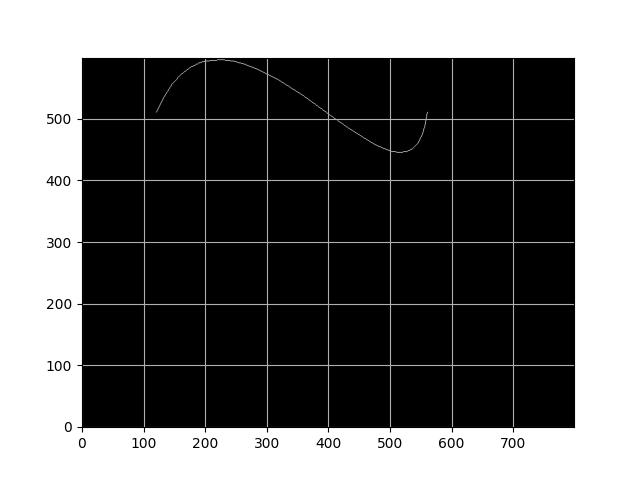
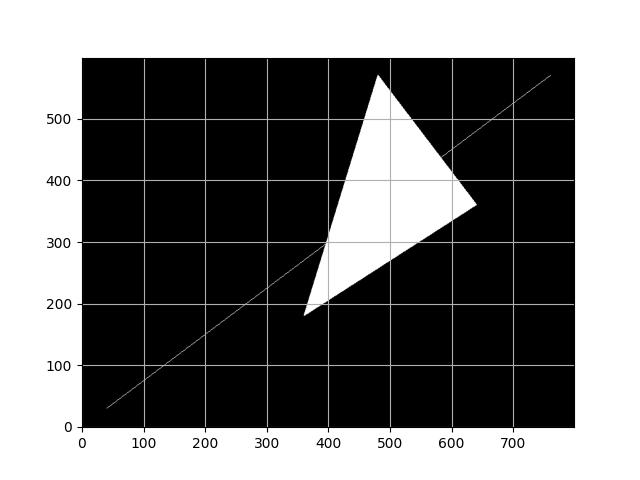
wip

Changed region(s): [[0.4688, 0.1562, 0.75, 0.6562], [0.375, 0.125, 0.4062, 0.1562], [0.2812, 0.125, 0.3125, 0.1562]]

diff --git a/raster.py b/raster.py
@@ -38,35 +38,70 @@ def plot_reta(matrix, ponto1, ponto2):
     return util.plot_rasterized(points, matrix)
 
 
-def ponto_dentro(ponto, vertices):
+def ponto_dentro(ponto, edges_list):
     x, y = ponto
-    num_vertices = len(vertices)
     dentro = False
 
-    for i in range(num_vertices):
-        xi, yi = vertices[i]
-        xj, yj = vertices[(i + 1) % num_vertices]
-        if ((yi < y <= yj) or (yj < y <= yi)) and (xi + (y - yi) / (yj - yi) * (xj - xi) < x):
+    for edge in edges_list:
+        ponto1, ponto2 = edge
+        x1, y1 = ponto1
+        x2, y2 = ponto2
+
+        if ((y1 < y <= y2) or (y2 < y <= y1)) and (x1 + (y - y1) / (y2 - y1) * (x2 - x1) < x):
             dentro = not dentro
 
     return dentro
 
 
-def plot_poli(matrix, edges_list):
-    poli = [(.0, .0), (.2, .2), (.4, .0), (.2, -.2)]
+def plot_poli2(matrix, edges_list):
 
-    # for i in range(len(edges_list)):
-    #     ponto1 = edges_list[i]
-    #     ponto2 = edges_list[(i + 1) % len(edges_list)]
-    #     plot_reta(matrix, ponto1, ponto2)
+    for i in range(len(edges_list)):
+        edge = edges_list[i]
+        ponto1 = edge[0]
+        ponto2 = edge[1]
+        plot_reta(matrix, ponto1, ponto2)
 
-    for x in range(len(matrix)):
-        for y in range(len(matrix[0])):
-            x_norm, y_norm = util.normalizar_coordenadas(x, y, len(matrix), len(matrix[0]))
-            if ponto_dentro((x_norm, y_norm), edges_list):
-                matrix[x][y] = 1
+    edges_list = escalar_arestas(edges_list, len(matrix), len(matrix[0]))
+
+    matriz = preencher_poligono(matrix, edges_list)
 
     return matrix
+
+
+def preencher_poligono(matrix, edges_list):
+    def get_intersecoes(y, arestas):
+        intersecoes = []
+        for aresta in arestas:
+            x1, y1 = aresta[0]
+            x2, y2 = aresta[1]
+
+            if y1 == y2:
+                continue
+
+            if y1 > y2:
+                x1, y1, x2, y2 = x2, y2, x1, y1
+
+            if y1 <= y < y2:
+                x_intersecao = x1 + (y - y1) * (x2 - x1) / (y2 - y1)
+                intersecoes.append(x_intersecao)
+
+        return sorted(intersecoes)
+
+    for y in range(len(matrix)):
+        intersecoes = get_intersecoes(y, edges_list)
+        for i in range(0, len(intersecoes), 2):
+            for x in range(int(intersecoes[i]), int(intersecoes[i + 1]) + 1):
+                matrix[y][x] = 1
+
+    return matrix
+
+
+def escalar_arestas(edges_list, largura, altura):
+    edges_scaled = []
+    for edge in edges_list:
+        scaled_edge = [(util.denormalizar_coordenadas(x_norm, y_norm, largura, altura)) for x_norm, y_norm in edge]
+        edges_scaled.append(scaled_edge)
+    return edges_scaled
 
 
 def generate_hermite_pts(matrix, p1, p2, t1, t2, step=.1, qtn: int = None):

diff --git a/interface.py b/interface.py
@@ -1,6 +1,7 @@
 import tkinter as tk
 from PIL import Image, ImageTk
 import CG
+from ast import literal_eval
 
 
 def importante(val):
@@ -45,10 +46,15 @@ def reta_control(root, matrix_list, image_name_list, images, imagem_label):
     button_adicionar_reta.grid(row=1, column=4)
 
 
-def poli_control(root, image_name_list, images, imagem_label):
+def poli_control(root, matrix_list, image_name_list, images, imagem_label):
     def botao_poli():
         print(entry_el.get())
-        # TODO: coisa os negocios aqui pra poder ler do jeito certo
+        lista_de_arestas = literal_eval(entry_el.get())
+        lista_de_arestas = [[tuple(map(float, ponto)) for ponto in aresta] for aresta in lista_de_arestas]
+
+        print(lista_de_arestas)
+        CG.plot_poli(matrix_list, lista_de_arestas)
+
         atualizar_imagens(image_name_list, images, imagem_label)
 
     poli_frame = tk.Frame(root, padx=10, pady=20)
@@ -111,10 +117,7 @@ def curva_control(root, matrix_list, image_name_list, images, imagem_label):
     button_adicionar_curva.grid(row=3, column=4)
 
 
-
-
 def janela(image_name_list, matrix_list):
-
     def rolar(event):
         canvas.configure(scrollregion=canvas.bbox("all"), yscrollincrement=20, xscrollincrement=20)
 
@@ -150,7 +153,7 @@ def janela(image_name_list, matrix_list):
 
     reta_control(frame_control, matrix_list, image_name_list, images, imagem_label)
 
-    poli_control(frame_control, image_name_list, images, imagem_label)
+    poli_control(frame_control, matrix_list, image_name_list, images, imagem_label)
 
     curva_control(frame_control, matrix_list, image_name_list, images, imagem_label)
 

diff --git a/CG.py b/CG.py
@@ -21,8 +21,11 @@ def plot_reta(matrix_list, p1, p2):
         gen_img(image_name_list, matrix)
 
 
-def plot_poli():
-    pass
+def plot_poli(matrix_list, edges_list):
+    image_name_list = []
+    for matrix in matrix_list:
+        matrix = raster.plot_poli2(matrix, edges_list)
+        gen_img(image_name_list, matrix)
 
 
 def plot_curva(matrix_list, p1, p2, t1, t2, t):

diff --git a/util.py b/util.py
@@ -13,11 +13,6 @@ def add_point(x, y, points):
     points.append((round(x), round(y)))
 
 
-def normalizar_coordenadas(x, y, largura, altura):
-    x_normalizado = (2 * x) / (largura - 1) - 1
-    y_normalizado = (2 * y) / (altura - 1) - 1
-    return x_normalizado, y_normalizado
-
 
 def denormalizar_coordenadas(x_norm, y_norm, largura, altura):
     rmin = -1
